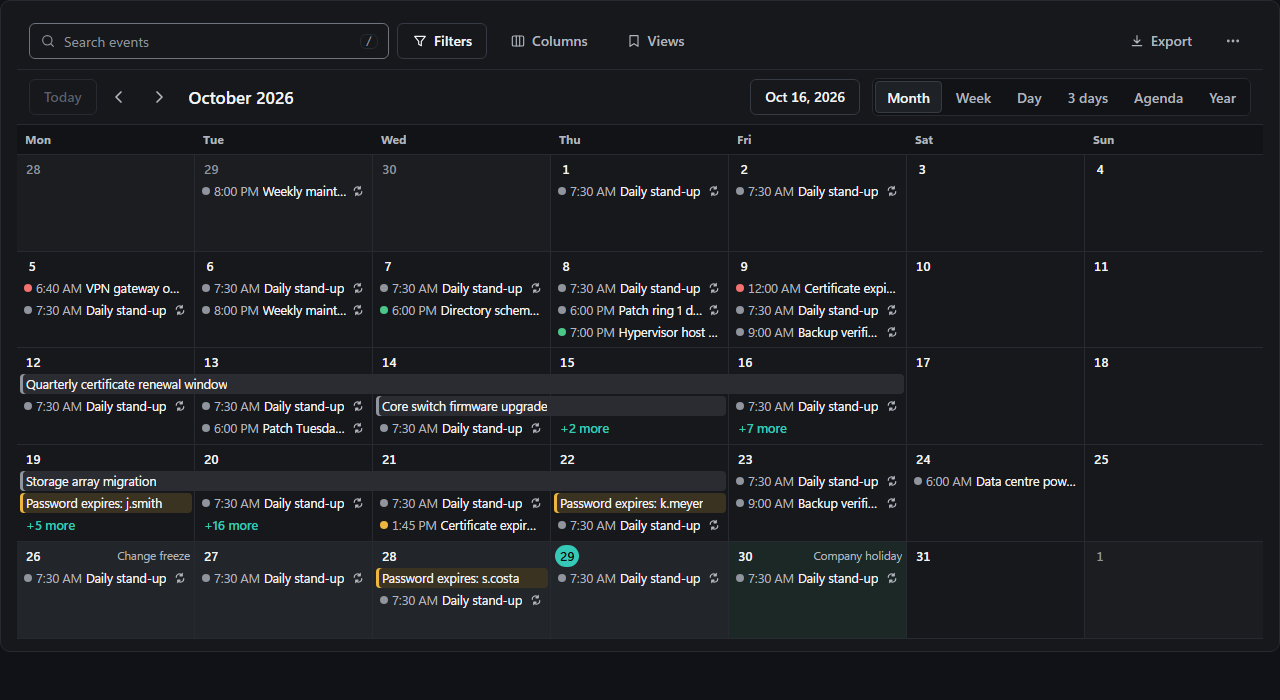
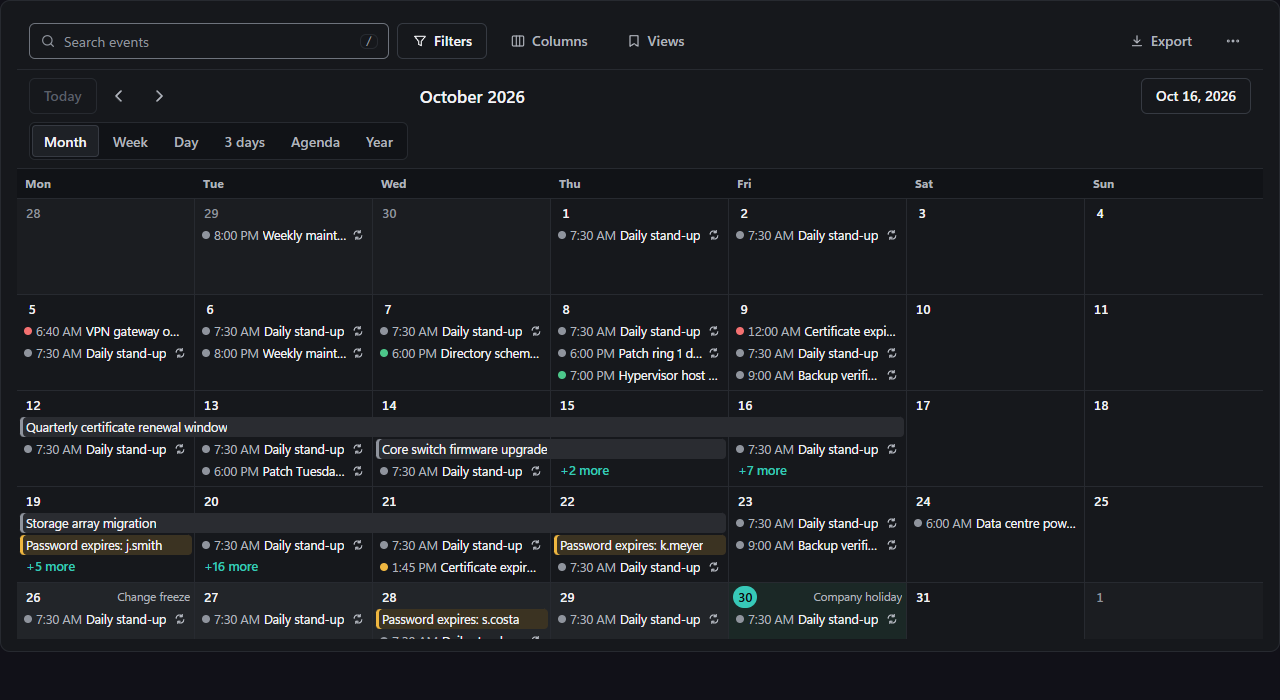
Refresh calendar and plan gallery images through HtmlTinkerX

diff --git a/tests/BrowserInstall/ReadmeImages.cs b/tests/BrowserInstall/ReadmeImages.cs
@@ -1,0 +1,47 @@
+using HtmlTinkerX;
+using Microsoft.Playwright;
+
+// Product-specific gallery states; HtmlTinkerX owns the installed-browser session and its lifetime.
+internal static class ReadmeImages {
+    public static async Task RunAsync(string[] args) {
+        if (args.Length < 2) throw new ArgumentException("Expected site URL, output folder, then optional view IDs.");
+        var site = new Uri(args[0].TrimEnd('/') + "/");
+        var output = Path.GetFullPath(args[1]);
+        var selected = args.Skip(2).ToHashSet(StringComparer.Ordinal);
+        Directory.CreateDirectory(output);
+        var shots = new (string Id, string Path, int Height)[] {
+            ("files", "live/files/index.html", 640), ("inventory", "live/inventory.html", 640),
+            ("pivot", "live/pivot.html", 560), ("board", "live/board.html", 640),
+            ("calendar", "live/calendar.html", 700), ("plan", "live/plan.html", 460),
+            ("timeline", "live/timeline.html", 620), ("matrix", "live/matrix.html", 640),
+            ("changes", "live/changes.html", 640), ("compare", "live/compare.html", 600),
+            ("time", "live/time.html", 480), ("flow", "live/flow-setup-tasks.html", 700),
+            ("path", "live/path.html", 560), ("stack", "live/stack.html", 640),
+            ("email", "live/gallery/conditional-formatting-static.html", 600)
+        };
+        if (selected.Except(shots.Select(shot => shot.Id)).Any()) throw new ArgumentException("Unknown view ID.");
+        foreach (var theme in new[] { "light", "dark" }) {
+            await using var session = await HtmlBrowser.OpenSessionAsync("about:blank", new HtmlBrowserLaunchOptions {
+                Headless = true, ManualLogin = false, Clean = false,
+                BrowserChannel = Environment.GetEnvironmentVariable("CANOPYX_BROWSER_CHANNEL") ?? "msedge",
+                ViewportWidth = 1280, ViewportHeight = 700, DeviceScaleFactor = 1,
+                LoadState = HtmlBrowserLoadState.DomContentLoaded, Timeout = 30000
+            });
+            var page = session.Page;
+            await page.EmulateMediaAsync(new() { ColorScheme = theme == "dark" ? ColorScheme.Dark : ColorScheme.Light });
+            await page.AddInitScriptAsync("try { localStorage.setItem('cnx-theme', '" + theme + "'); } catch {}");
+            foreach (var shot in shots.Where(shot => selected.Count == 0 || selected.Contains(shot.Id))) {
+                await page.SetViewportSizeAsync(1280, shot.Height);
+                var response = await page.GotoAsync(new Uri(site, shot.Path).AbsoluteUri, new() { WaitUntil = WaitUntilState.NetworkIdle });
+                if (response is not null && !response.Ok) throw new InvalidOperationException($"HTTP {response.Status}: {shot.Path}");
+                await page.AddStyleTagAsync(new() { Content = ".cnx-livebar{display:none!important}body{padding-top:0!important}" });
+                await page.EvaluateAsync("value => { document.documentElement.dataset.theme = value; document.querySelectorAll('[data-cx-theme]').forEach(host => host.setAttribute('data-cx-theme', value)); }", theme);
+                if (shot.Id == "files") await page.GetByRole(AriaRole.Row, new() { NameRegex = new System.Text.RegularExpressions.Regex("Finance") }).First.WaitForAsync();
+                await page.EvaluateAsync("async () => { await document.fonts.ready; await new Promise(resolve => requestAnimationFrame(() => requestAnimationFrame(resolve))); }");
+                var file = Path.Combine(output, $"{shot.Id}-{theme}.png");
+                await page.ScreenshotAsync(new() { Path = file, Animations = ScreenshotAnimations.Disabled });
+                Console.WriteLine(file);
+            }
+        }
+    }
+}

diff --git a/tests/BrowserInstall/Program.cs b/tests/BrowserInstall/Program.cs
@@ -1,6 +1,11 @@
 using HtmlTinkerX;
 using System.Text.Json;
 
+if (args.FirstOrDefault() == "--readme-images") {
+    await ReadmeImages.RunAsync(args.Skip(1).ToArray());
+    return;
+}
+
 // HtmlTinkerX owns browser installation and repair. This test-only executable selects the engines used by CI.
 var engines = args.Select(name => name switch {
     "chromium" => HtmlBrowserEngine.Chromium,
